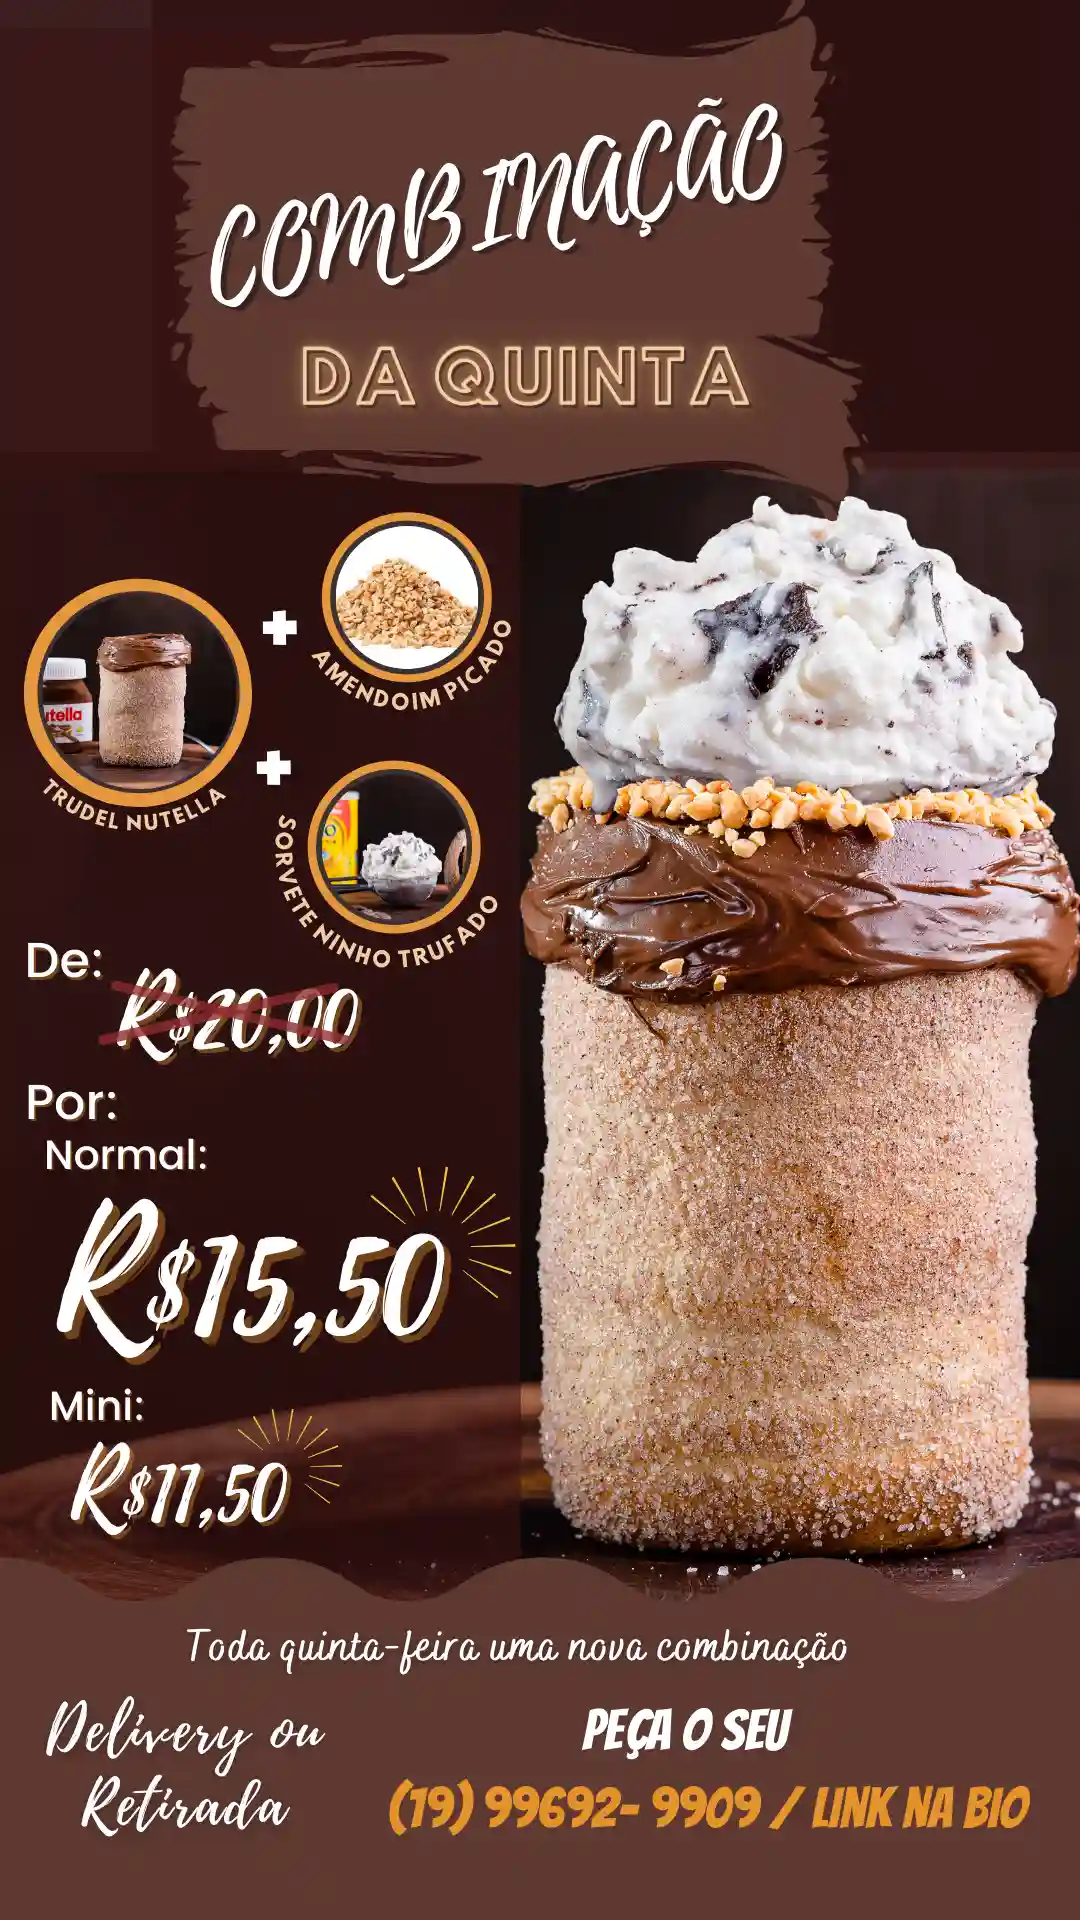
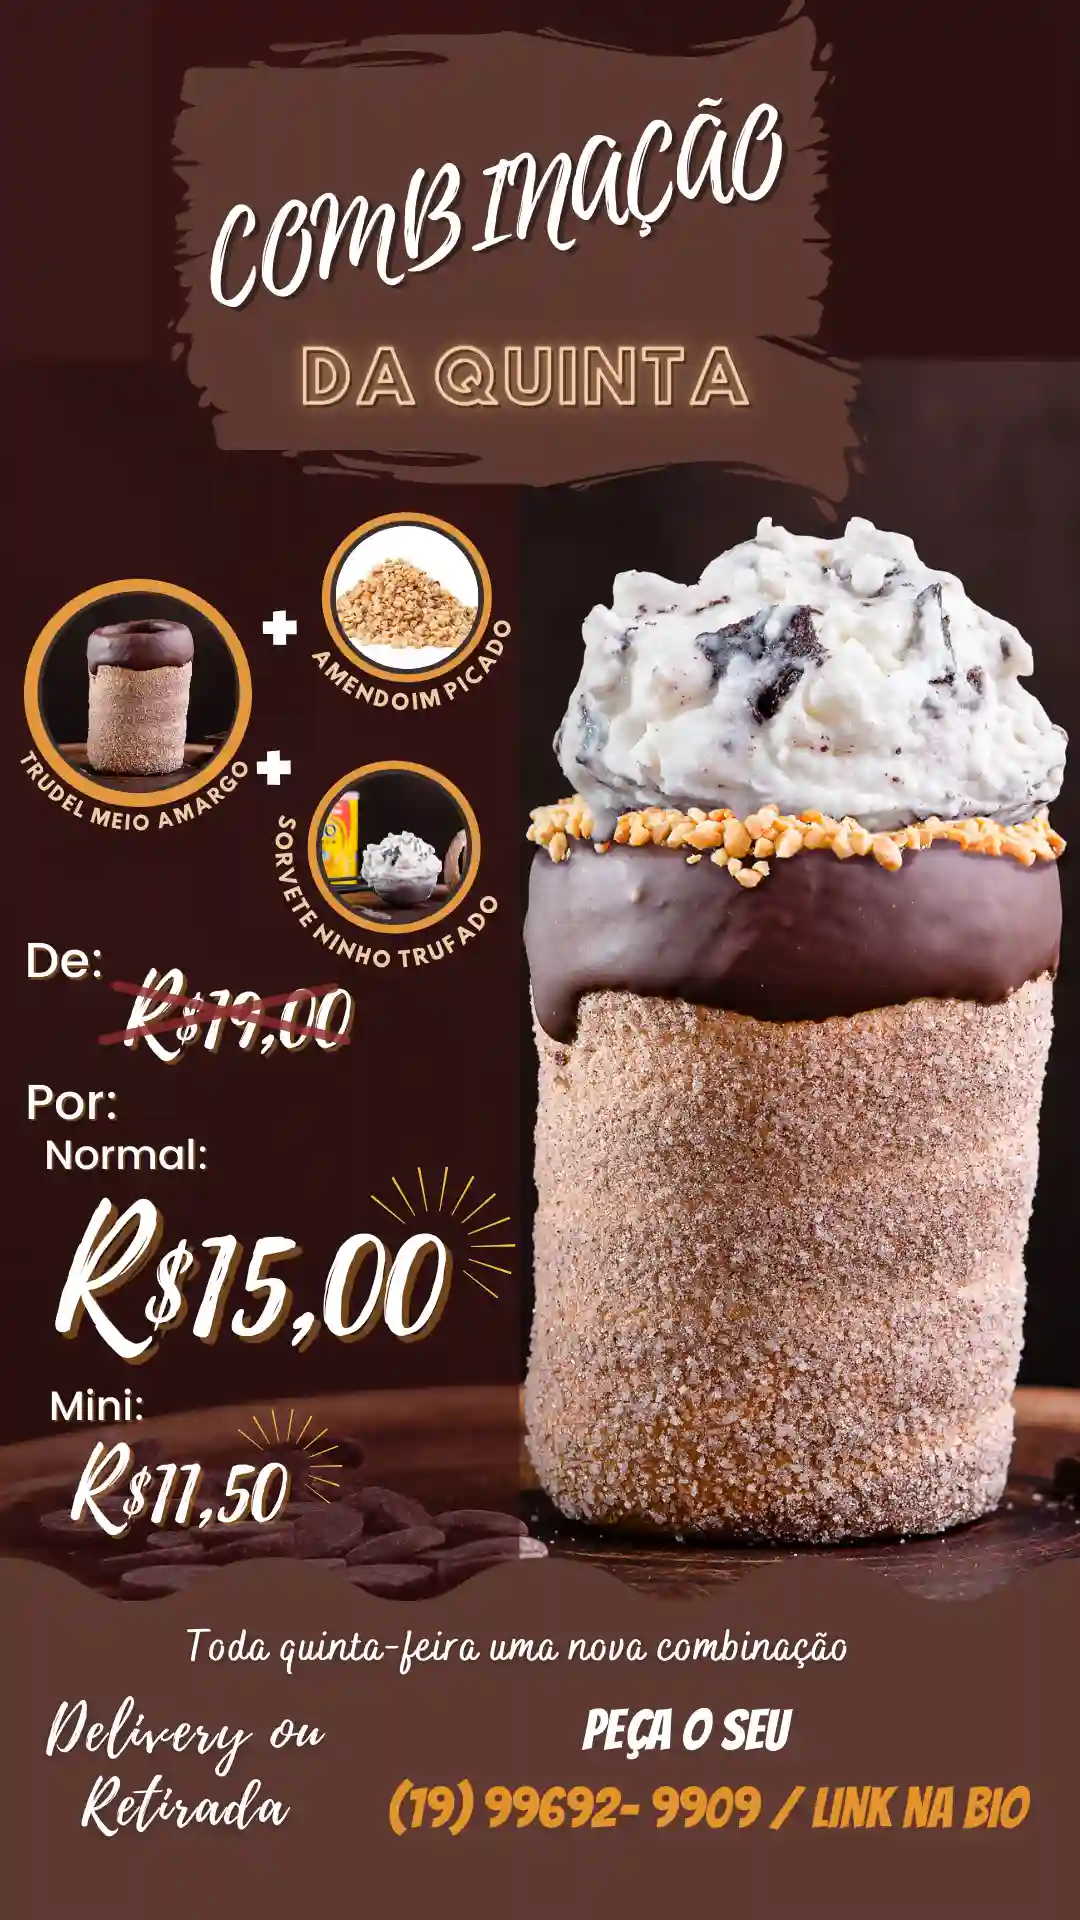
Some changes on prices and thursday promo

diff --git a/scripts/data.js b/scripts/data.js
@@ -45,17 +45,17 @@ const trudel = [
         span: "",
         description: "O verdadeiro creme de avelã, o mais pedido e queridinho dos nossos clientes.",
         image: "./assets/Menu/Trudels/Nutella.webp",
-        price: 14,
+        price: 15,
         miniPrice: 10
     },
-    // {
-    //     flavour: "KIT KAT CREMOSO",
-    //     span: "",
-    //     description: "Um recheio que mistura a cremosidade do chocolate e o crocante do biscoito wafer.",
-    //     image: "./assets/Menu/Trudels/Kitkat.webp",
-    //     price: 14,
-    //     miniPrice: 10
-    // },
+    {
+        flavour: "KIT KAT CREMOSO",
+        span: "",
+        description: "Um recheio que mistura a cremosidade do chocolate e o crocante do biscoito wafer.",
+        image: "./assets/Menu/Trudels/Kitkat.webp",
+        price: 15,
+        miniPrice: 10
+    },
     {
         flavour: "OVOMALTINE",
         span: "",
@@ -99,14 +99,14 @@ const additional = [
         price: 1,
         miniPrice: 0.5
     },
-    {
-        flavour: "CONFETE",
-        span: "",
-        description: "",
-        image: "./assets/Menu/Adicionais/confete.jpg",
-        price: 2,
-        miniPrice: 1
-    },
+    // {
+    //     flavour: "CONFETE",
+    //     span: "",
+    //     description: "",
+    //     image: "./assets/Menu/Adicionais/confete.jpg",
+    //     price: 2,
+    //     miniPrice: 1
+    // },
     {
         flavour: "COCO RALADO",
         span: "",
@@ -123,14 +123,14 @@ const additional = [
         price: 2,
         miniPrice: 1
     },
-    {
-        flavour: "NEGRESCO MOIDO",
-        span: "",
-        description: "",
-        image: "./assets/Menu/Adicionais/Negresco.webp",
-        price: 2,
-        miniPrice: 1
-    },
+    // {
+    //     flavour: "NEGRESCO MOIDO",
+    //     span: "",
+    //     description: "",
+    //     image: "./assets/Menu/Adicionais/Negresco.webp",
+    //     price: 2,
+    //     miniPrice: 1
+    // },
     {
         flavour: "AMENDOIM",
         span: "",
@@ -138,6 +138,13 @@ const additional = [
         image: "./assets/Menu/Adicionais/amendoim.jpg",
         price: 2,
         miniPrice: 1
+    },
+    {
+        flavour: "SONHO DE VALSA PICADO",
+        span: "",
+        description: "",
+        image: "./assets/Menu/Adicionais/sonhoDeValsa.jpg",
+        price: 2
     },
     {
         flavour: "NOZES",
@@ -154,13 +161,6 @@ const additional = [
         image: "./assets/Menu/Adicionais/kitKat2.jpg",
         price: 3,
         miniPrice: 1.5
-    },
-    {
-        flavour: "SONHO DE VALSA PICADO",
-        span: "",
-        description: "",
-        image: "./assets/Menu/Adicionais/sonhoDeValsa.jpg",
-        price: 3
     },
     {
         flavour: "DOBRO DE RECHEIO",
@@ -201,20 +201,20 @@ const savoryTrudel = [
         image: "./assets/Menu/Savory/FrangoCheddar.webp",
         price: 14
     },
-    {
-        flavour: "ALHO PORÓ",
-        span: "",
-        description: "Recheio de requeijão cremoso sabor Alho Poró. Suave, sofisticado e surpreendente.",
-        image: "./assets/Menu/Savory/AlhoPoro.webp",
-        price: 15
-    },
-    {
-        flavour: "4 QUEIJOS",
-        span: "",
-        description: "Recheio de requeijão cremoso sabor 4 Queijos. A junção do sabor do Catupiry, parmesão, gorgonzola e provolone. Perfeito para aqueles que adoram queijos!",
-        image: "./assets/Menu/Savory/QuatroQueijos.webp",
-        price: 15
-    }
+    // {
+    //     flavour: "ALHO PORÓ",
+    //     span: "",
+    //     description: "Recheio de requeijão cremoso sabor Alho Poró. Suave, sofisticado e surpreendente.",
+    //     image: "./assets/Menu/Savory/AlhoPoro.webp",
+    //     price: 15
+    // },
+    // {
+    //     flavour: "4 QUEIJOS",
+    //     span: "",
+    //     description: "Recheio de requeijão cremoso sabor 4 Queijos. A junção do sabor do Catupiry, parmesão, gorgonzola e provolone. Perfeito para aqueles que adoram queijos!",
+    //     image: "./assets/Menu/Savory/QuatroQueijos.webp",
+    //     price: 15
+    // }
 ]
 const savoryAdditional = [
     {
@@ -252,42 +252,42 @@ const iceCream = [
         span: "",
         description: "O clássico sorvete de creme que combina com tudo.",
         image: "./assets/Menu/Sorvetes/Creme.webp",
-        price: 4
+        price: 5
     },
     {
         flavour: "NINHO TRUFADO",
         span: "",
         description: "O nosso sabor mais pedido, a dupla perfeita, leite Ninho e chocolate.",
         image: "./assets/Menu/Sorvetes/NinhoTrufado.webp",
-        price: 4
+        price: 5
     },
     {
         flavour: "IOGURTE COM FRUTAS VERMELHAS",
         span: "",
         description: "A leveza do iogurte com um mix das frutas amora, framboesa, cereja e morango.",
         image: "./assets/Menu/Sorvetes/IogurteFrutasVermelhas.webp",
-        price: 4
+        price: 5
     },
     {
         flavour: "CAFÉ MOCHA",
         span: "",
         description: "O sorvete ideal para quem adora café com um toque especial de chocolate.",
         image: "./assets/Menu/Sorvetes/CafeMocha.webp",
-        price: 4
+        price: 5
     },
     {
         flavour: "BEM CASADO",
         span: "",
         description: "A união que deu certo, sorvete com pedaços de biscoito e doce de leite.",
         image: "./assets/Menu/Sorvetes/BemCasado.webp",
-        price: 4
+        price: 5
     },
     {
         flavour: "SENSAÇÃO",
         span: "",
         description: "A deliciosa combinação do sorvete de morango com pedaços de chocolate.",
         image: "./assets/Menu/Sorvetes/Sensacao.webp",
-        price: 4
+        price: 5
     }
 ]
 const trudelRings = [
@@ -327,13 +327,13 @@ const stuffingPots = {
             image: "./assets/Menu/Potes/PoteDoceDeLeite.webp",
             price: 4,
         },
-        // {
-        //     flavour: "KITKAT CREMOSO",
-        //     span: "",
-        //     description: "",
-        //     image: "./assets/Menu/Potes/poteKitkat.webp",
-        //     price: 5,
-        // },
+        {
+            flavour: "KITKAT CREMOSO",
+            span: "",
+            description: "",
+            image: "./assets/Menu/Potes/poteKitkat.webp",
+            price: 5,
+        },
         {
             flavour: "NUTELLA",
             span: "",
@@ -373,26 +373,40 @@ const drinks = [
         image: "./assets/Menu/Bebidas/AguaComGas.jpg",
         price: 3
     },
+    // {
+    //     flavour: "SODA ITALIANA CRANBERRY",
+    //     span: "500ml",
+    //     description: "Frescor e um toque doce suave definem essa bebida! Feita com água com gás e xarope de frutas importado e gelo.",
+    //     image: "./assets/Menu/Bebidas/Cranberry.webp",
+    //     price: 12
+    // },
+    // {
+    //     flavour: "SODA ITALIANA MAÇÃ VERDE",
+    //     span: "500ml",
+    //     description: "Sabor excepcional, o preferido daqueles que tem o paladar mais doce.  Feita com água com gás e xarope de frutas importado e gelo.",
+    //     image: "./assets/Menu/Bebidas/MacaVerde.webp",
+    //     price: 12
+    // },
+    // {
+    //     flavour: "SODA ITALIANA LIMÃO SICILIANO",
+    //     span: "500ml",
+    //     description: "Refrescante e cítrico, uma verdadeira limonada premium. Feita com água com gás e xarope de frutas importado e gelo.",
+    //     image: "./assets/Menu/Bebidas/LimaoSiciliano.webp",
+    //     price: 12
+    // },
     {
-        flavour: "SODA ITALIANA CRANBERRY",
-        span: "500ml",
-        description: "Frescor e um toque doce suave definem essa bebida! Feita com água com gás e xarope de frutas importado e gelo.",
-        image: "./assets/Menu/Bebidas/Cranberry.webp",
-        price: 12
+        flavour: "COCA-COLA",
+        span: "350ml",
+        description: "Refrigerante Coca-Cola Lata",
+        image: "./assets/Menu/Bebidas/cocacola.webp",
+        price: 4
     },
     {
-        flavour: "SODA ITALIANA MAÇÃ VERDE",
-        span: "500ml",
-        description: "Sabor excepcional, o preferido daqueles que tem o paladar mais doce.  Feita com água com gás e xarope de frutas importado e gelo.",
-        image: "./assets/Menu/Bebidas/MacaVerde.webp",
-        price: 12
-    },
-    {
-        flavour: "SODA ITALIANA LIMÃO SICILIANO",
-        span: "500ml",
-        description: "Refrescante e cítrico, uma verdadeira limonada premium. Feita com água com gás e xarope de frutas importado e gelo.",
-        image: "./assets/Menu/Bebidas/LimaoSiciliano.webp",
-        price: 12
+        flavour: "GUARANÁ",
+        span: "350ml",
+        description: "Refrigerante Guaraná Antartica Lata",
+        image: "./assets/Menu/Bebidas/guarana.webp",
+        price: 4
     },
     
 ]
@@ -553,6 +567,20 @@ const promotion = {
     ]
 }
 
+const combo = {
+    name: "COMBO DA SEMANA",
+    category:"combo",
+    items: [
+            {
+                value:"COMBO DA SEMANA",
+                flavour: "Combo",
+                description: "Trudel de Frango + Mini-Trudel de Doce de Leite + Refrigerante!",
+                image: "./assets/Menu/Promotion/thursdayCombination.webp",
+                price: 23.00,
+            },
+    ]
+}    
+
 const christmasTrudel = {
     name: "ESPECIAL DE NATAL",
     category:"christmasTrudel",
@@ -588,8 +616,9 @@ const miniChristmas =
         })
     }
 
-// menuView.unshift(promotion)
-menuView.unshift(christmasTrudel)
+menuView.unshift(promotion)
+// menuView.unshift(combo)
+// menuView.unshift(christmasTrudel)
 
 const entregas = {
     name: "ENTREGAS",

diff --git a/scripts/menu.js b/scripts/menu.js
@@ -117,8 +117,8 @@ const lightbox = {
 
 // Destaque de novidade/combinação com Lightbox e SetTimeout
 
-// lightbox.open(false)
-// setTimeout(lightbox.close, 7000);
+lightbox.open(false)
+setTimeout(lightbox.close, 7000);
 
 // Views SPA
 
